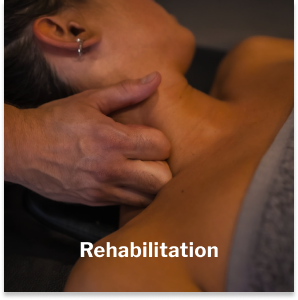
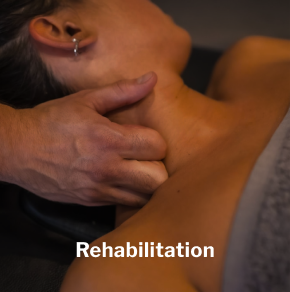
estilos finales de trataments

diff --git a/estilos/estilos.css b/estilos/estilos.css
@@ -273,4 +273,35 @@ header .nav-header ul li a img {
   line-height: 44px;
 }
 
+.trataments .trataments_container {
+  width: 73.125rem;
+  margin: 6.25rem auto;
+}
+.trataments .trataments_container .trataments_titles {
+  text-align: center;
+  margin-bottom: 1.9375rem;
+}
+.trataments .trataments_container .trataments_titles .tratmens_T {
+  font-family: "Libre Franklin";
+  font-size: 2.25rem;
+  font-weight: 700;
+  letter-spacing: 0.02em;
+  color: #E27D60;
+  margin: 0 auto;
+}
+.trataments .trataments_container .trataments_titles .tratmens_P {
+  font-family: "Work Sans";
+  font-style: normal;
+  font-weight: 300;
+  font-size: 1rem;
+  text-transform: uppercase;
+  letter-spacing: 0.1em;
+  margin: 0.5rem auto;
+}
+
+.trataments_images {
+  display: flex;
+  justify-content: space-between;
+}
+
 /*# sourceMappingURL=estilos.css.map */

diff --git a/aboutus.html b/aboutus.html
@@ -33,6 +33,20 @@
     <h3>Home / About Us</h3>
     <h1>About Us</h1>
   </div>
+  <section class="trataments">
+    <div class="trataments_container">
+      <div class="trataments_titles">
+        <p class="tratmens_P">Treatments</p>
+        <p class="tratmens_T">Your key to a relaxed life.</p>
+      </div>
+      <div class="trataments_images">
+        <a href="#"><img src="images/RelaxMassage.png" alt=""></a>
+        <a href="#"><img src="images/Aromatherapy.png" alt=""></a>
+        <a href="#"><img src="images/Rehabilitation.png" alt=""></a>
+        <a href=""><img src="images/Manicure & Pedicure.png" alt=""></a>
+      </div>
+    </div>
+  </section>
   <section class="our_team">
     <div class="our_team_title">
       <p class="sub_up">

diff --git a/estilos/_Trataments.scss b/estilos/_Trataments.scss
@@ -1,0 +1,33 @@
+.trataments {
+  .trataments_container {
+    width: 73.125rem;
+    margin: 6.25rem auto;
+
+    .trataments_titles {
+      text-align: center;
+      margin-bottom: 1.9375rem; 
+      .tratmens_T {
+        font-family:'Libre Franklin';
+        font-size: 2.25rem;
+        font-weight: 700;
+        letter-spacing: 0.02em;
+        color: #E27D60;
+        margin: 0 auto;
+      }
+      .tratmens_P {
+        font-family: 'Work Sans';
+        font-style: normal;
+        font-weight: 300;
+        font-size: 1rem;
+        text-transform: uppercase;
+        letter-spacing: 0.1em;
+        margin: .5rem auto;
+      }
+    }
+  }
+}
+
+.trataments_images{
+  display: flex;
+  justify-content: space-between;
+}

diff --git a/services.html b/services.html
@@ -32,6 +32,20 @@
     <h3>Home / Services</h3>
     <h1>Services</h1>
   </div>
+  <section class="trataments">
+    <div class="trataments_container">
+      <div class="trataments_titles">
+        <p class="tratmens_P">Treatments</p>
+        <p class="tratmens_T">Your key to a relaxed life.</p>
+      </div>
+      <div class="trataments_images">
+        <a href="#"><img src="images/RelaxMassage.png" alt=""></a>
+        <a href="#"><img src="images/Aromatherapy.png" alt=""></a>
+        <a href="#"><img src="images/Rehabilitation.png" alt=""></a>
+        <a href=""><img src="images/Manicure & Pedicure.png" alt=""></a>
+      </div>
+    </div>
+  </section>
   <footer>
 
     <section class="footer_container">

diff --git a/index.html b/index.html
@@ -33,6 +33,20 @@
     </nav>
   </header>
 
+<section class="trataments">
+  <div class="trataments_container">
+    <div class="trataments_titles">
+      <p class="tratmens_P">Treatments</p>
+      <p class="tratmens_T">Your key to a relaxed life.</p>
+    </div>
+    <div class="trataments_images">
+      <a href="#"><img src="images/RelaxMassage.png" alt=""></a>
+      <a href="#"><img src="images/Aromatherapy.png" alt=""></a>
+      <a href="#"><img src="images/Rehabilitation.png" alt=""></a>
+      <a href=""><img src="images/Manicure & Pedicure.png" alt=""></a>
+    </div>
+  </div>
+</section>
 
   <section class="our_team">
     <div class="our_team_title">

diff --git a/estilos/estilos.scss b/estilos/estilos.scss
@@ -18,4 +18,5 @@ body{
 @import "header";
 @import "ourteam";
 @import "headline";
+@import "Trataments"
 
